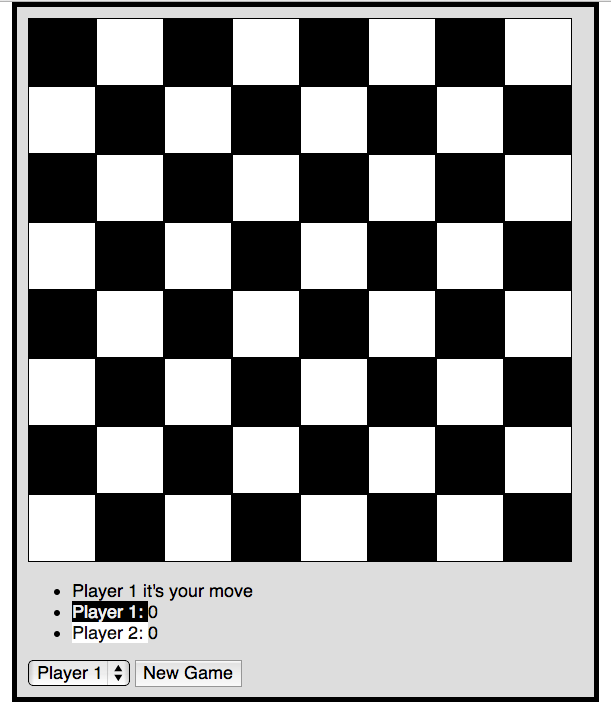
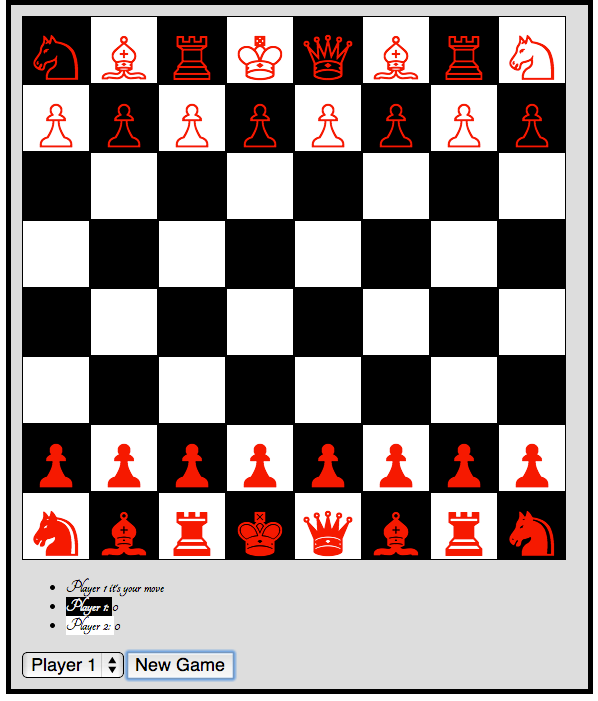
started tests for chess, going to tdd this one

diff --git a/src/chess_game_board_controller.js b/src/chess_game_board_controller.js
@@ -1,6 +1,113 @@
 app.controller("ChessGameBoardController", function($scope){
   GridGameHelp.ScopeDecorator($scope);
 
+  $scope.processClick = function(cell){
+    $scope.clearFlash()
+    player = $scope.activePlayer()
+    if($scope.activeCell){
+
+      if($scope.validMove(cell,player)){
+        cell.addPlayer( player )
+        processCaptures(skipTrace)
+        $scope.activeCell.removePlayer()
+        $scope.clearActiveCell()
+        $scope.passPlay()
+      } else {
+        $scope.flash = "Not a Valid Move"
+      }
+    }else if( cell.ownedBy( $scope.activePlayer() ) ){
+      $scope.activateCell(cell)  
+    }
+  }
+  
+  $scope.newGame = function(){
+  	var pieces = ['g','b','r','k','q','b','r','g']
+  	 var p1cell
+  	 var p2cell 
+  	 for(var j in pieces){
+  	 	piece1 = $scope.pieces[ 'w' + pieces[j] ]
+  	 	p1cell = $scope.getCell(0,j)
+  	 	p1cell.addOccupant(piece1)
+  	    p1cell.player = $scope.players[0]
+        
+        piece2 = $scope.pieces[ 'b' + pieces[j] ]
+        p2cell = $scope.getCell(7,j)
+        p2cell.addOccupant(piece2)
+        p2cell.player = $scope.players[1]
+  	 }
+
+  	 for(var i=0; i<8; i++){
+  	   piece1 = $scope.pieces['wp']
+  	   p1cell = $scope.getCell(1,i)
+  	   p1cell.addOccupant(piece1)
+  	   p1cell.player = $scope.players[0]
+
+       piece2 = $scope.pieces['bp']
+       p2cell = $scope.getCell(6,i)
+       p2cell.addOccupant(piece2)
+       p2cell.player = $scope.players[1]
+     }
+
+  }
+
+
+   
+  $scope.validMove = function(cell,player){
+    var moves = $scope.activeCell.occupant.validMoves
+    var cells = new Array()
+    var valid = false
+    for(m in moves){
+      valid = testMove(cell,moves[m])   
+      if(valid){ break;  }      
+    }
+
+    return valid
+  }
+
+  $scope.pieces = { 
+  	wk: new GridGameHelp.Piece("white king"  , '&#9812', '♔', ['n','ne','e','se','s','sw','w','nw']        ),
+    wq: new GridGameHelp.Piece("white queen" , '&#9813', '♕', ['n*','ne*','e*','se*','s*','sw*','w*','nw*']),
+    wr: new GridGameHelp.Piece("white rook"  , '&#9814', '♖', ['ne*','se*','sw*','nw*']                    ),
+    wb: new GridGameHelp.Piece("white bishop", '&#9815', '♗', ['n*','e*','s*','w*']                        ),
+    wg: new GridGameHelp.Piece("white knight", '&#9816', '♘', ['n+n+e','n+n+w','s+s+e','s+s+w','e+e+s','e+e+n','w+w+s','w+w+n']),
+    wp: new GridGameHelp.Piece("white pawn"  , '&#9817', '♙', ['s']                                        ),
+    bk: new GridGameHelp.Piece("black king"  , '&#9818', '♚', ['n','ne','e','se','s','sw','w','nw']        ),
+    bq: new GridGameHelp.Piece("black queen" , '&#9819', '♛', ['n*','ne*','e*','se*','s*','sw*','w*','nw*']),
+    br: new GridGameHelp.Piece("black rook"  , '&#9820', '♜', ['ne*','se*','sw*','nw*']                    ),
+    bb: new GridGameHelp.Piece("black bishop", '&#9821', '♝', ['n*','e*','s*','w*']                        ),
+    bg: new GridGameHelp.Piece("black knight", '&#9822', '♞', ['n+n+e','n+n+w','s+s+e','s+s+w','e+e+s','e+e+n','w+w+s','w+w+n']),
+    bp: new GridGameHelp.Piece("black pawn"  , '&#9823', '♟', ['n']                                        )
+  }
+
+
+  //is this cell a valid move
+  var testMove = function(cell, move){
+	  var directions = new GridGameHelp.Directions()
+
+	  //starting with naive, brute force matches, we will clean these up when
+  	//when we flesh out the rest of the details here
+  	var oneSpace   = /^(n|ne|e|se|s|sw|w|nw)$/g
+  	var manySpaces = /^(n*|ne*|e*|se*|s*|sw*|w*|nw*)$/g
+  	var jumps      = /^(n+n+e|n+n+w|s+s+e|s+s+w|e+e+s|e+e+n|w+w+s|w+w+n)$/g
+    var targetCell
+    var valid = false
+    var moveDetail = {}
+  	var matches = move.match(oneSpace)
+    console.log(matches)
+   console.log(move)
+    if( matches && matches.length > 0 ){
+        moveDetail.x = $scope.activeCell.x + directions[move].x
+        moveDetail.y = $scope.activeCell.y + directions[move].y
+        targetCell = $scope.getCell(moveDetail.x, moveDetail.y)
+        valid = !cell.ownedBy( $scope.activePlayer ) 
+  	}
+
+      return valid;
+    }
 
 });
+
+
+
+
   

diff --git a/src/grid_game_helpers.js b/src/grid_game_helpers.js
@@ -25,8 +25,17 @@ var GridGameHelper = function(){
       this.equals    = function(other){
         return this.x == other.x && this.y == other.y
       }
+      this.getIcon   = function(){
+        return this.occupant ? this.occupant.icon : ""
+      }
       this.hasPlayer = function(){
         return !(this.player == undefined)
+      }
+      this.addOccupant = function(obj){
+        this.occupant = obj
+      }
+      this.removeOccupant = function(){
+        this.occupant = undefined
       }
       this.removePlayer = function(){
         this.player = undefined
@@ -37,8 +46,11 @@ var GridGameHelper = function(){
       this.tokenIs = function(token){
         return this.player && this.player.token == token
       }
-      this.unoccupied = function(){
+      this.unowned = function(){
         return this.player == undefined
+      }
+      this.unoccupied = function(){
+        return this.occupant = undefined
       }
       this.statusToken = function(){
         return this.active ? "active" : "inactive";
@@ -86,6 +98,19 @@ var GridGameHelper = function(){
   
     }, 
 
+
+    /* A generalized game piece object
+       name: a label
+       html: html code representation 
+       icon: image or character */
+    Piece: function(name, html, icon, moves){
+        this.name = name
+        this.icon = icon
+        this.html = html
+        this.validMoves = moves
+    },
+
+
     /* A Generalized player object 
        id: Normally the expected index in the players array
        name: The name of the player
@@ -122,7 +147,10 @@ var GridGameHelper = function(){
 
       scope.activePlayerId = 0
       scope.firstPlayer  = scope.players[0]
-
+      scope.addCell     = function(cell){
+        scope.rows[cell.x] = scope.rows[cell.x] || new Array()
+        scope.rows[cell.x][cell.y] = cell
+      }
       scope.statusToken = function(x,y){
         return scope.getCell(x,y).active ? 'active' : ''
       }
@@ -162,6 +190,9 @@ var GridGameHelper = function(){
           cell.player = scope.activePlayer();
         }
       }
+      scope.rows = function(){
+        return this.gameboard.rows
+      }
       scope.swapActiveCell = function(cell){
         scope.activeCell.deactivate()
         scope.activateCell(cell)
@@ -179,7 +210,9 @@ var GridGameHelper = function(){
     Template: function(){
       var tpl ="<div ng-repeat='row in gameBoard.rows' class='gameRow'>"
           +"      <div ng-repeat='cell in gameBoard.rows[$index]' ng-class='cell.statusToken()' class='gameCell' ng-click='processClick(cell)'>"
-          +"        <div draggable='true' ng-class='cell.token()' class='token'><span class='decoration'>{{cell.decoration}}</div>"
+          +"        <div draggable='true' ng-class='cell.token()' class='token'>"
+          +"            <span class='icon'>{{cell.getIcon()}}</span>"
+          +"            <span class='decoration'>{{cell.decoration}}</div>"
           +"      </div>"
           +"   </div>"
           +"   <div class='clear'/>"

diff --git a/spec_runner.html b/spec_runner.html
@@ -17,11 +17,13 @@
   <script src="src/grid_board_game.js"></script>
   <script src="src/othello_game_board_controller.js"></script>
   <script src="src/checkers_game_board_controller.js"></script>
+  <script src="src/chess_game_board_controller.js"></script>
 
   <!-- include spec files here... -->
   <script src="spec/SpecHelper.js"></script>
   <script src="spec/othello_game_board_controller_spec.js"></script>
   <script src="spec/checkers_game_board_controller_spec.js"></script>
+  <script src="spec/chess_game_board_controller_spec.js"></script>
   <script src="spec/grid_game_help_spec.js"></script>
 
   <script type="text/javascript">

diff --git a/stylesheets/chess.css b/stylesheets/chess.css
@@ -5,6 +5,7 @@
   margin: auto;
   padding: 10px;
   background-color: #dddddd;
+  font-family: 'Tangerine', serif;
 }
 
 .gameCell{
@@ -46,11 +47,21 @@
 }
 
 .p2Token{
-  background-color: white;
   color: #111111;
 }
 
 .p1Token{
-  background-color: black;
   color: #eeeeee;
+}
+
+.active{
+  border: 1px solid orange;
+}
+.icon{
+  color: red;
+  text-align: center;
+  margin: auto;
+  display: block;
+  vertical-align: center;
+  font-size: 3em;
 }

diff --git a/src/checkers_game_board_controller.js b/src/checkers_game_board_controller.js
@@ -52,7 +52,7 @@ app.controller("CheckersGameBoardController", function($scope){
       var secondCoords = mergeCoordinates(target,coords)
       var secondTarget = $scope.getCell(secondCoords.x,secondCoords.y)
 
-      if(target && cell.equals(target) && target.unoccupied() ){
+      if(target && cell.equals(target) && target.unowned() ){
         cellFound = true
         break
       //target is occupied so we check the next cell

diff --git a/chess.html b/chess.html
@@ -14,6 +14,9 @@
   <script src="src/chess_game_board_controller.js"></script>
 
   <link rel='stylesheet' href="http://yui.yahooapis.com/pure/0.3.0/pure-min.css"/>
+
+  <link rel="stylesheet" type="text/css" href="http://fonts.googleapis.com/css?family=Tangerine">
+
   <link rel='stylesheet' href="stylesheets/chess.css"/>
   <!--[if lt IE 9]>
   <script src="http://html5shiv.googlecode.com/svn/trunk/html5.js"></script>
